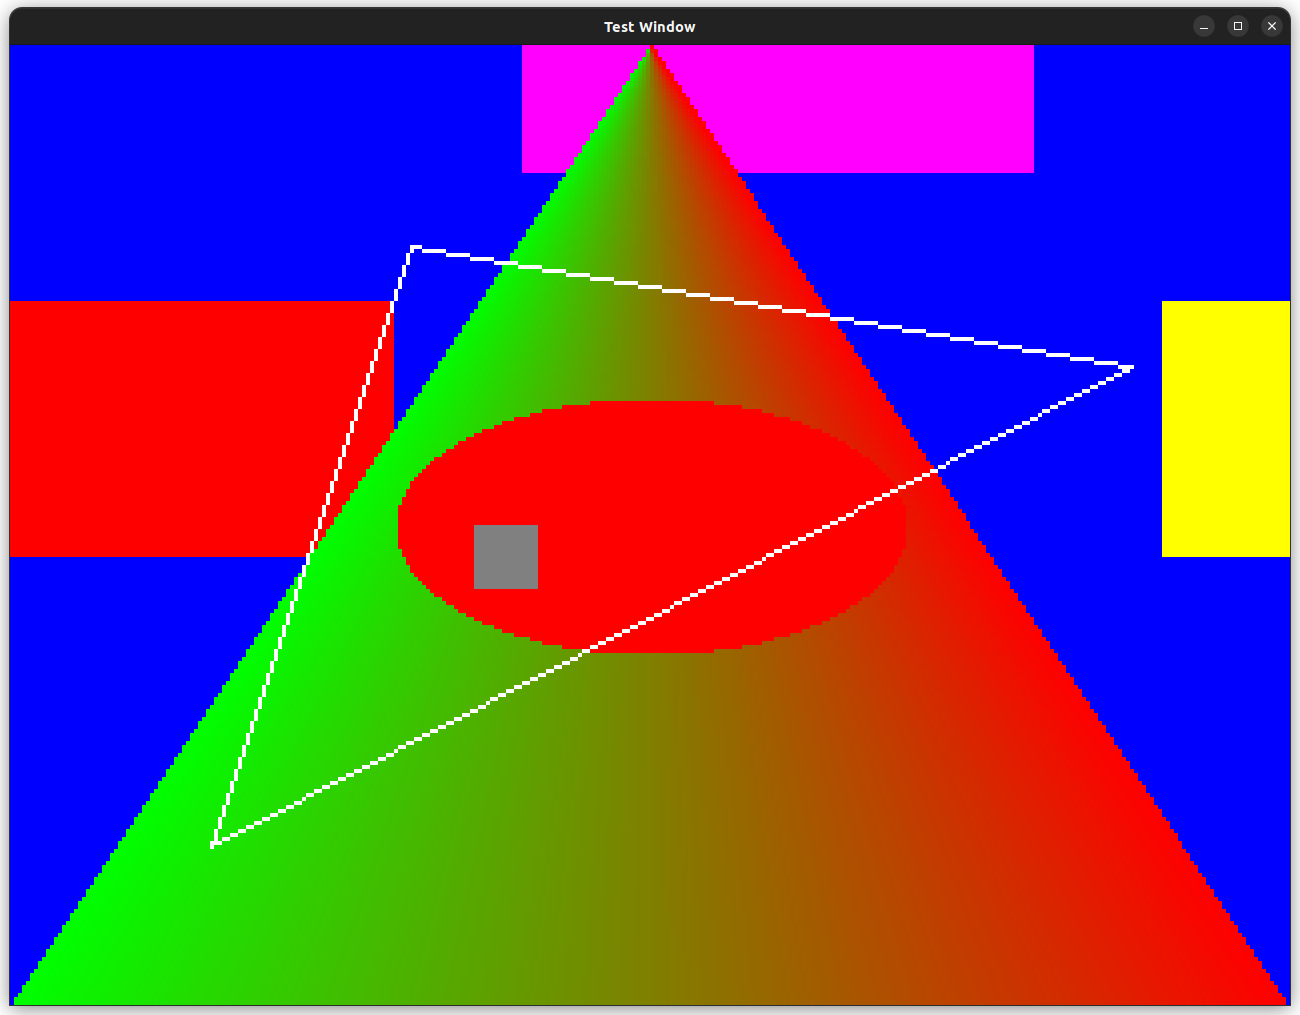
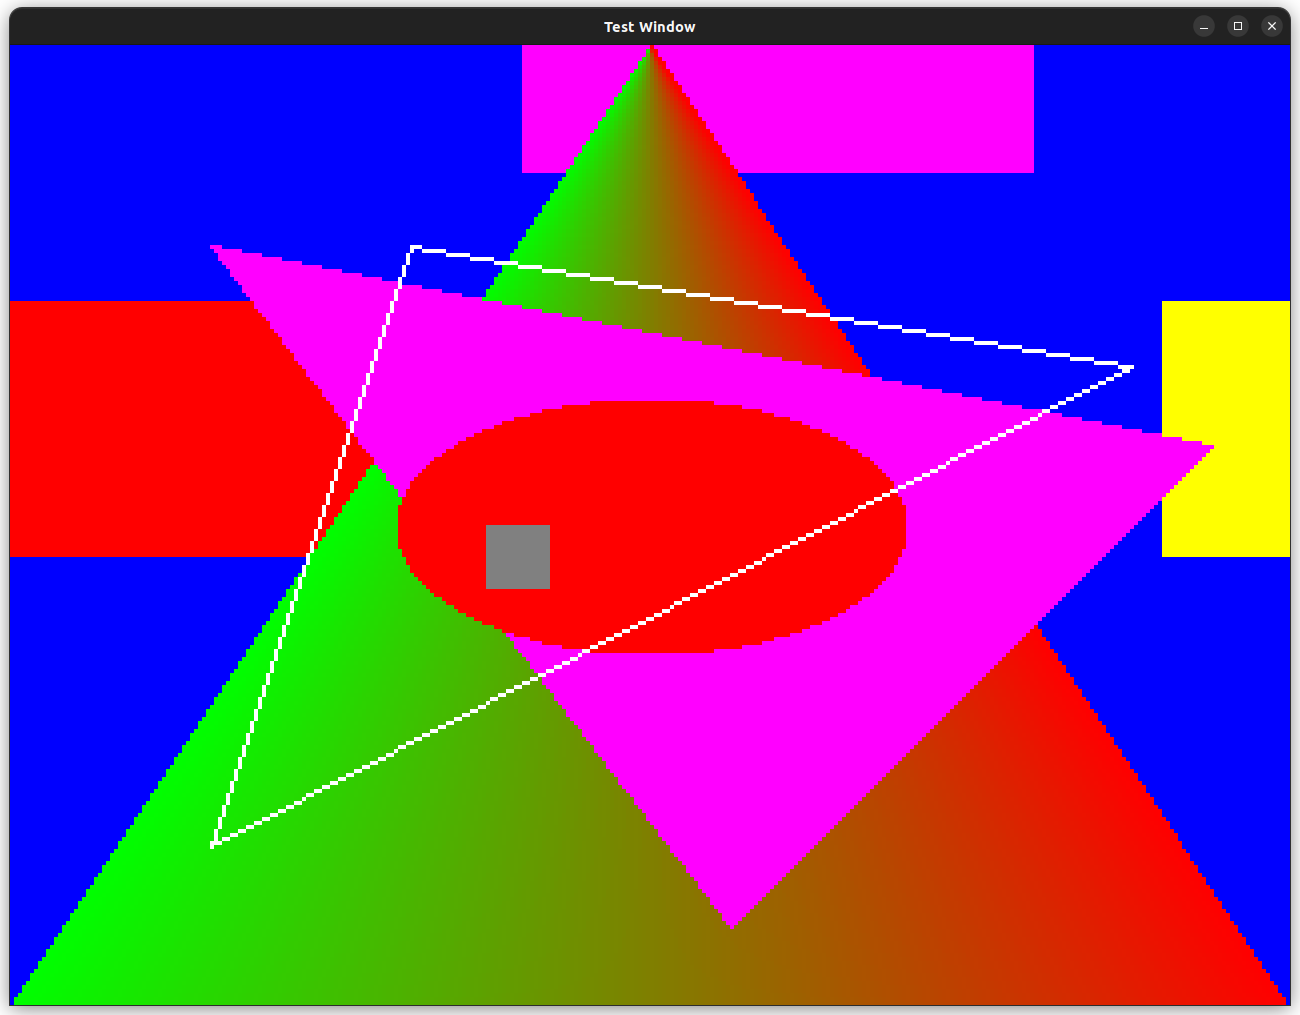
Added filled triangle rendering

Changed region(s): [[0.1538, 0.2443, 0.9538, 0.9163], [0.3385, 0.5192, 0.4308, 0.5803]]

diff --git a/src/RR_Graphics.cpp b/src/RR_Graphics.cpp
@@ -192,8 +192,263 @@ void RR_BlitTriangle(RR_Window &window, int x1, int y1, int x2, int y2, int x3, 
 };
 
 void RR_BlitFillTriangle(RR_Window &window, int x1, int y1, int x2, int y2, int x3, int y3, RR_Pixel pixel){
+    // Originaly from: https://www.avrfreaks.net/sites/default/files/triangles.c 
+    // However it appears that this link no longer works.
+    // Code taken from OLCGameEngine: https://www.github.com/onelonecoder
+    // and tweaked because I couldn't find better triangle drawing code
     // TODO:
-    // Add triangle rendering
+    // Make this better
+    
+    int t1x, t2x, minx, maxx, t1xp, t2xp;
+    int signx1, signx2;
+    int e1, e2;
+    bool changed1 = false;
+    bool changed2 = false;
+
+    auto blitline = [&](int sx, int ex, int ny) { 
+        for (int i = sx; i <= ex; i++) 
+            RR_Plot(window, i, ny, pixel); 
+    };
+
+    // Sort vertices
+    if (y1 > y2) { 
+        std::swap(y1, y2); 
+        std::swap(x1, x2); 
+    }
+    if (y1 > y3) { 
+        std::swap(y1, y3); 
+        std::swap(x1, x3); 
+    }
+    if (y2 > y3) { 
+        std::swap(y2, y3); 
+        std::swap(x2, x3); 
+    }
+
+    t1x = t2x = x1; 
+    int y = y1;   // Starting points
+    int dx1 = (int)(x2 - x1); 
+
+    if (dx1<0) { 
+        dx1 = -dx1; // Would ^80000000 be faster??
+        signx1 = -1; 
+    } else {
+        signx1 = 1;
+    }
+    int dy1 = (int)(y2 - y1);
+    int dx2 = (int)(x3 - x1); 
+
+    signx2 = 1;
+    
+    if (dx2<0) { 
+        dx2 = -dx2; 
+        signx2 = -1; 
+    }
+    
+    int dy2 = (int)(y3 - y1);
+
+    if (dy1 > dx1) {   // swap values
+        std::swap(dx1, dy1);
+        changed1 = true;
+    }
+    if (dy2 > dx2) {   // swap values
+        std::swap(dy2, dx2);
+        changed2 = true;
+    }
+
+    e2 = (int)(dx2 >> 1);
+
+    //
+    // WARNING: MESSY CODE INCOMING!!!
+    //
+
+    // Flat top, just process the second half
+    if (y1 == y2) {
+        goto next;
+    }
+
+    e1 = (int)(dx1 >> 1);
+
+    for (int i = 0; i < dx1;) {
+        t1xp = t2xp = 0;
+        if (t1x<t2x) { 
+            minx = t1x; 
+            maxx = t2x; 
+        }else { 
+            minx = t2x; 
+            maxx = t1x; 
+        }
+        // process first line until y value is about to change
+        while (i<dx1) {
+            i++;
+            e1 += dy1;
+            while (e1 >= dx1) {
+                e1 -= dx1;
+                if (changed1) {
+                    t1xp = signx1;//t1x += signx1;
+                }else {
+                    // Skip to bottom half
+                    goto next1;
+                }
+            }
+            if (changed1) { 
+                break; 
+            }else { 
+                t1x += signx1; 
+            }
+        }
+        // Move line
+    next1:
+        // process second line until y value is about to change
+        while (1) {
+            e2 += dy2;
+            while (e2 >= dx2) {
+                e2 -= dx2;
+                if (changed2) {
+                    t2xp = signx2;//t2x += signx2;
+                }else {
+                    goto next2;
+                }
+            }
+            if (changed2) {
+                break;
+            } else {
+                t2x += signx2;
+            }
+        }
+    next2:
+        if (minx>t1x) {
+            minx = t1x;
+        }
+        if (minx>t2x) {
+            minx = t2x;
+        }
+        if (maxx<t1x) {
+            maxx = t1x; 
+        }
+        if (maxx<t2x) {
+            maxx = t2x;
+        }
+
+        // Draw line from min to max points found on the y
+        blitline(minx, maxx, y);
+
+        // Now increase y
+        if (!changed1) {
+            t1x += signx1;
+        }
+
+        t1x += t1xp;
+        if (!changed2) {
+            t2x += signx2;
+        }
+
+        t2x += t2xp;
+        y += 1;
+
+        if (y == y2) {
+            break;
+        }
+    }
+next:
+    // Second half
+    dx1 = (int)(x3 - x2); 
+    if (dx1<0) { 
+        dx1 = -dx1; 
+        signx1 = -1; 
+    } else {
+        signx1 = 1;
+    }
+
+    dy1 = (int)(y3 - y2);
+    t1x = x2;
+
+    if (dy1 > dx1) {   // swap values
+        std::swap(dy1, dx1);
+        changed1 = true;
+    }
+    else {
+        changed1 = false;
+    }
+
+    e1 = (int)(dx1 >> 1);
+
+    for (int i = 0; i <= dx1; i++) {
+        t1xp = t2xp = 0;
+        if (t1x<t2x) { 
+            minx = t1x; 
+            maxx = t2x; 
+        } else { 
+            minx = t2x; 
+            maxx = t1x; 
+        }
+        // process first line until y value is about to change
+        while (i<dx1) {
+            e1 += dy1;
+            while (e1 >= dx1) {
+                e1 -= dx1;
+                if (changed1) { 
+                    t1xp = signx1; 
+                    //t1x += signx1;
+                    break; 
+                } else {
+                    goto next3;
+                }
+            }
+            if (changed1) {
+                break;
+            } else {
+                t1x += signx1;
+            }
+            if (i<dx1) {
+                i++;
+            }
+        }
+    next3:
+        // process second line until y value is about to change
+        while (t2x != x3) {
+            e2 += dy2;
+            while (e2 >= dx2) {
+                e2 -= dx2;
+                if (changed2) {
+                    t2xp = signx2;
+                } else {
+                    goto next4;
+                }
+            }
+            if (changed2) {
+                break;
+            } else {
+                t2x += signx2;
+            }
+        }
+    next4:
+        if (minx>t1x) {
+            minx = t1x;
+        }
+        if (minx>t2x) {
+            minx = t2x;
+        }
+        if (maxx<t1x) {
+            maxx = t1x; 
+        }
+        if (maxx<t2x) {
+            maxx = t2x;
+        }
+        // Draw line from min to max points found on the y
+        blitline(minx, maxx, y); 
+        if (!changed1) {
+            t1x += signx1;
+        }
+        t1x += t1xp;
+        if (!changed2) {
+            t2x += signx2;
+        }
+        t2x += t2xp;
+        y += 1;
+        if (y>y3) {
+            return;
+        }
+    }
 };
 
 void RR_ClearScreen(RR_Window &window, RR_Pixel pixel){

diff --git a/include/RR_Graphics.h b/include/RR_Graphics.h
@@ -113,7 +113,7 @@ pixel   -> pixel info to render
 void RR_BlitLine(RR_Window &window, int x1, int y1, int x2, int y2, RR_Pixel pixel);
 
 /*
-Draws an ellipse on the screen
+Draws a trianlge on the screen
 window  -> window to render to
 x[1-3]  -> point positions horizontaly on the screen
 y[1-3]  -> point positions vertically on the screen
@@ -121,6 +121,15 @@ pixel   -> pixel info to render
 */
 void RR_BlitTriangle(RR_Window &window, int x1, int y1, int x2, int y2, int x3, int y3, RR_Pixel pixel);
 
+
+/*
+Draws a filled trianlge on the screen
+window  -> window to render to
+x[1-3]  -> point positions horizontaly on the screen
+y[1-3]  -> point positions vertically on the screen
+pixel   -> pixel info to render
+*/
+void RR_BlitFillTriangle(RR_Window &window, int x1, int y1, int x2, int y2, int x3, int y3, RR_Pixel pixel);
 
 /*
 Clears the screen to a set pixel

diff --git a/src/tests/test_shapes.cpp b/src/tests/test_shapes.cpp
@@ -59,6 +59,9 @@ int main(int argc, char *args[]){
             RR_BlitLine(local_window, 160, 0, i, 240, RR_Pixel(RR_RGBA((i*0.8f),255-(i*0.8f),0),0));
         }
 
+        // Draw a solid triangle
+        RR_BlitFillTriangle(local_window, 50,50,300,100,180,220, RR_Pixel(RR_RGBA(255,0,255),0));
+
         // Draw an ellipse
         RR_BlitEllipse(local_window, 160, 120, 64, 32, RR_Pixel(RR_RGBA(255,0,0),0));
 

diff --git a/include/RetroRasterLib.h b/include/RetroRasterLib.h
@@ -37,7 +37,7 @@
 
 #pragma once
 
-#define RR_VER_STRING "RR_v.0.0.1"
+#define RR_VER_STRING "RR_v.0.0.2-alpha"
 
 typedef struct RR_Window_t RR_Window;
 typedef struct RR_Image_t RR_Image;
